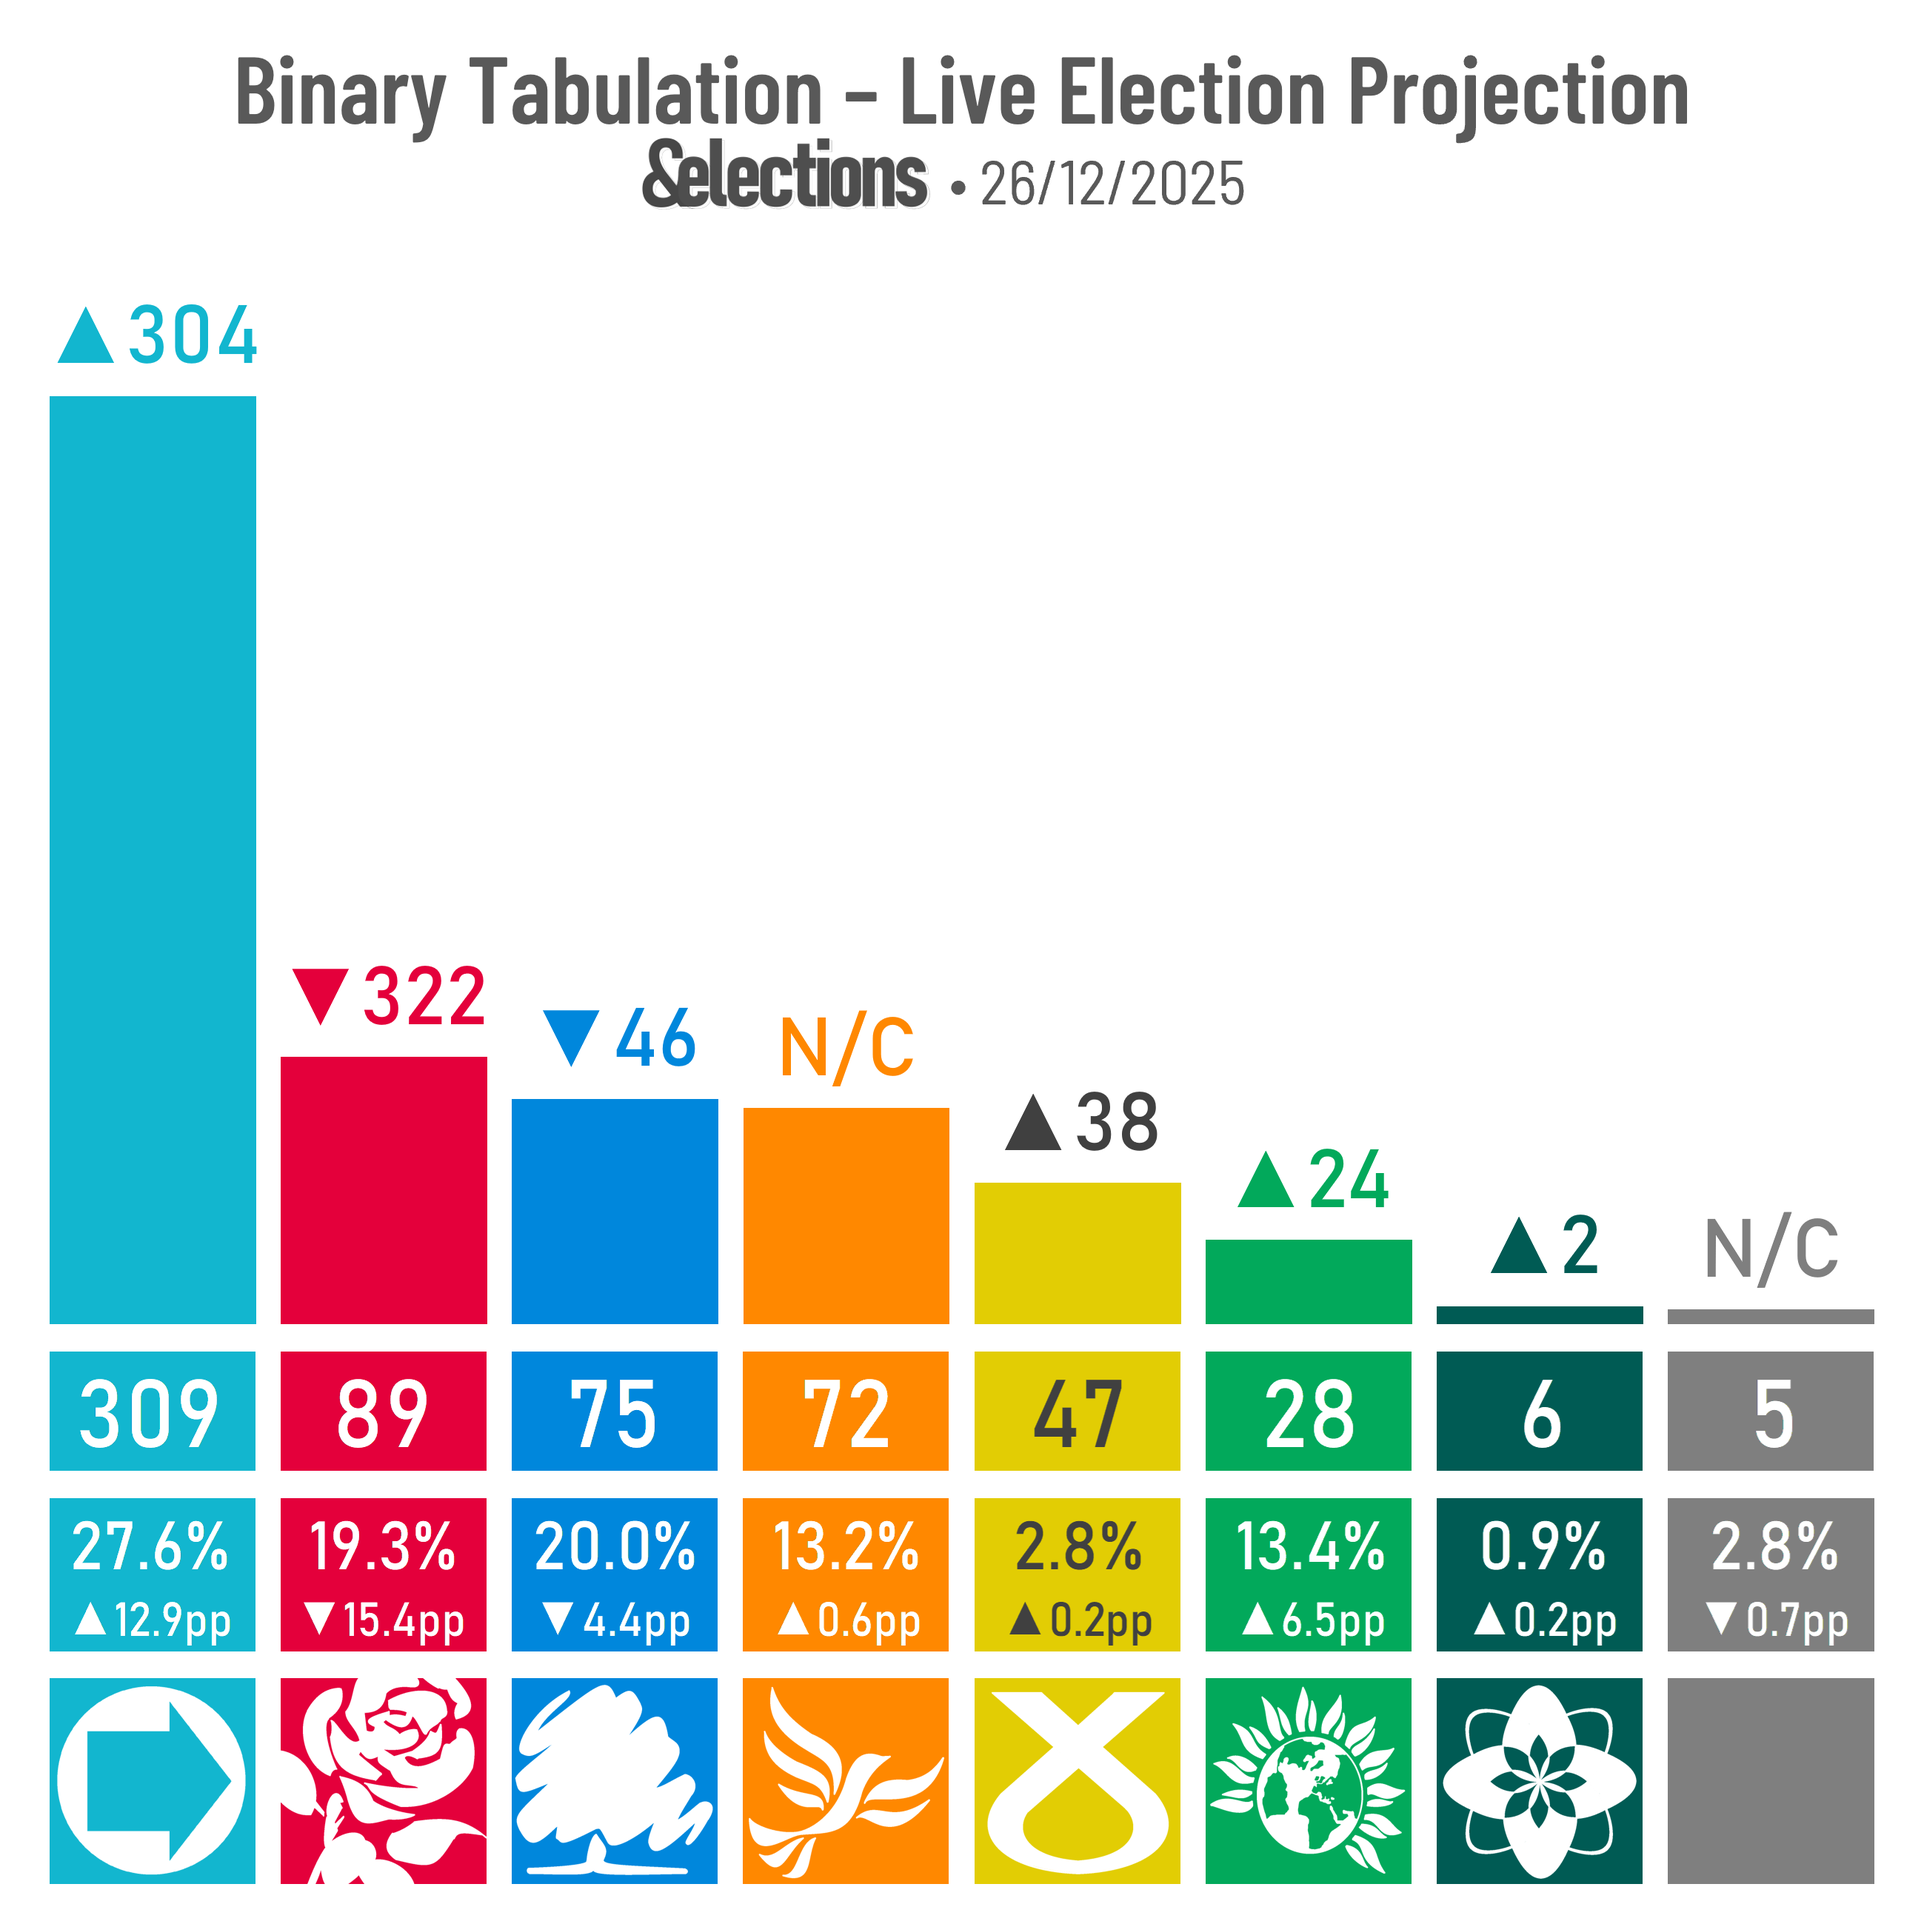
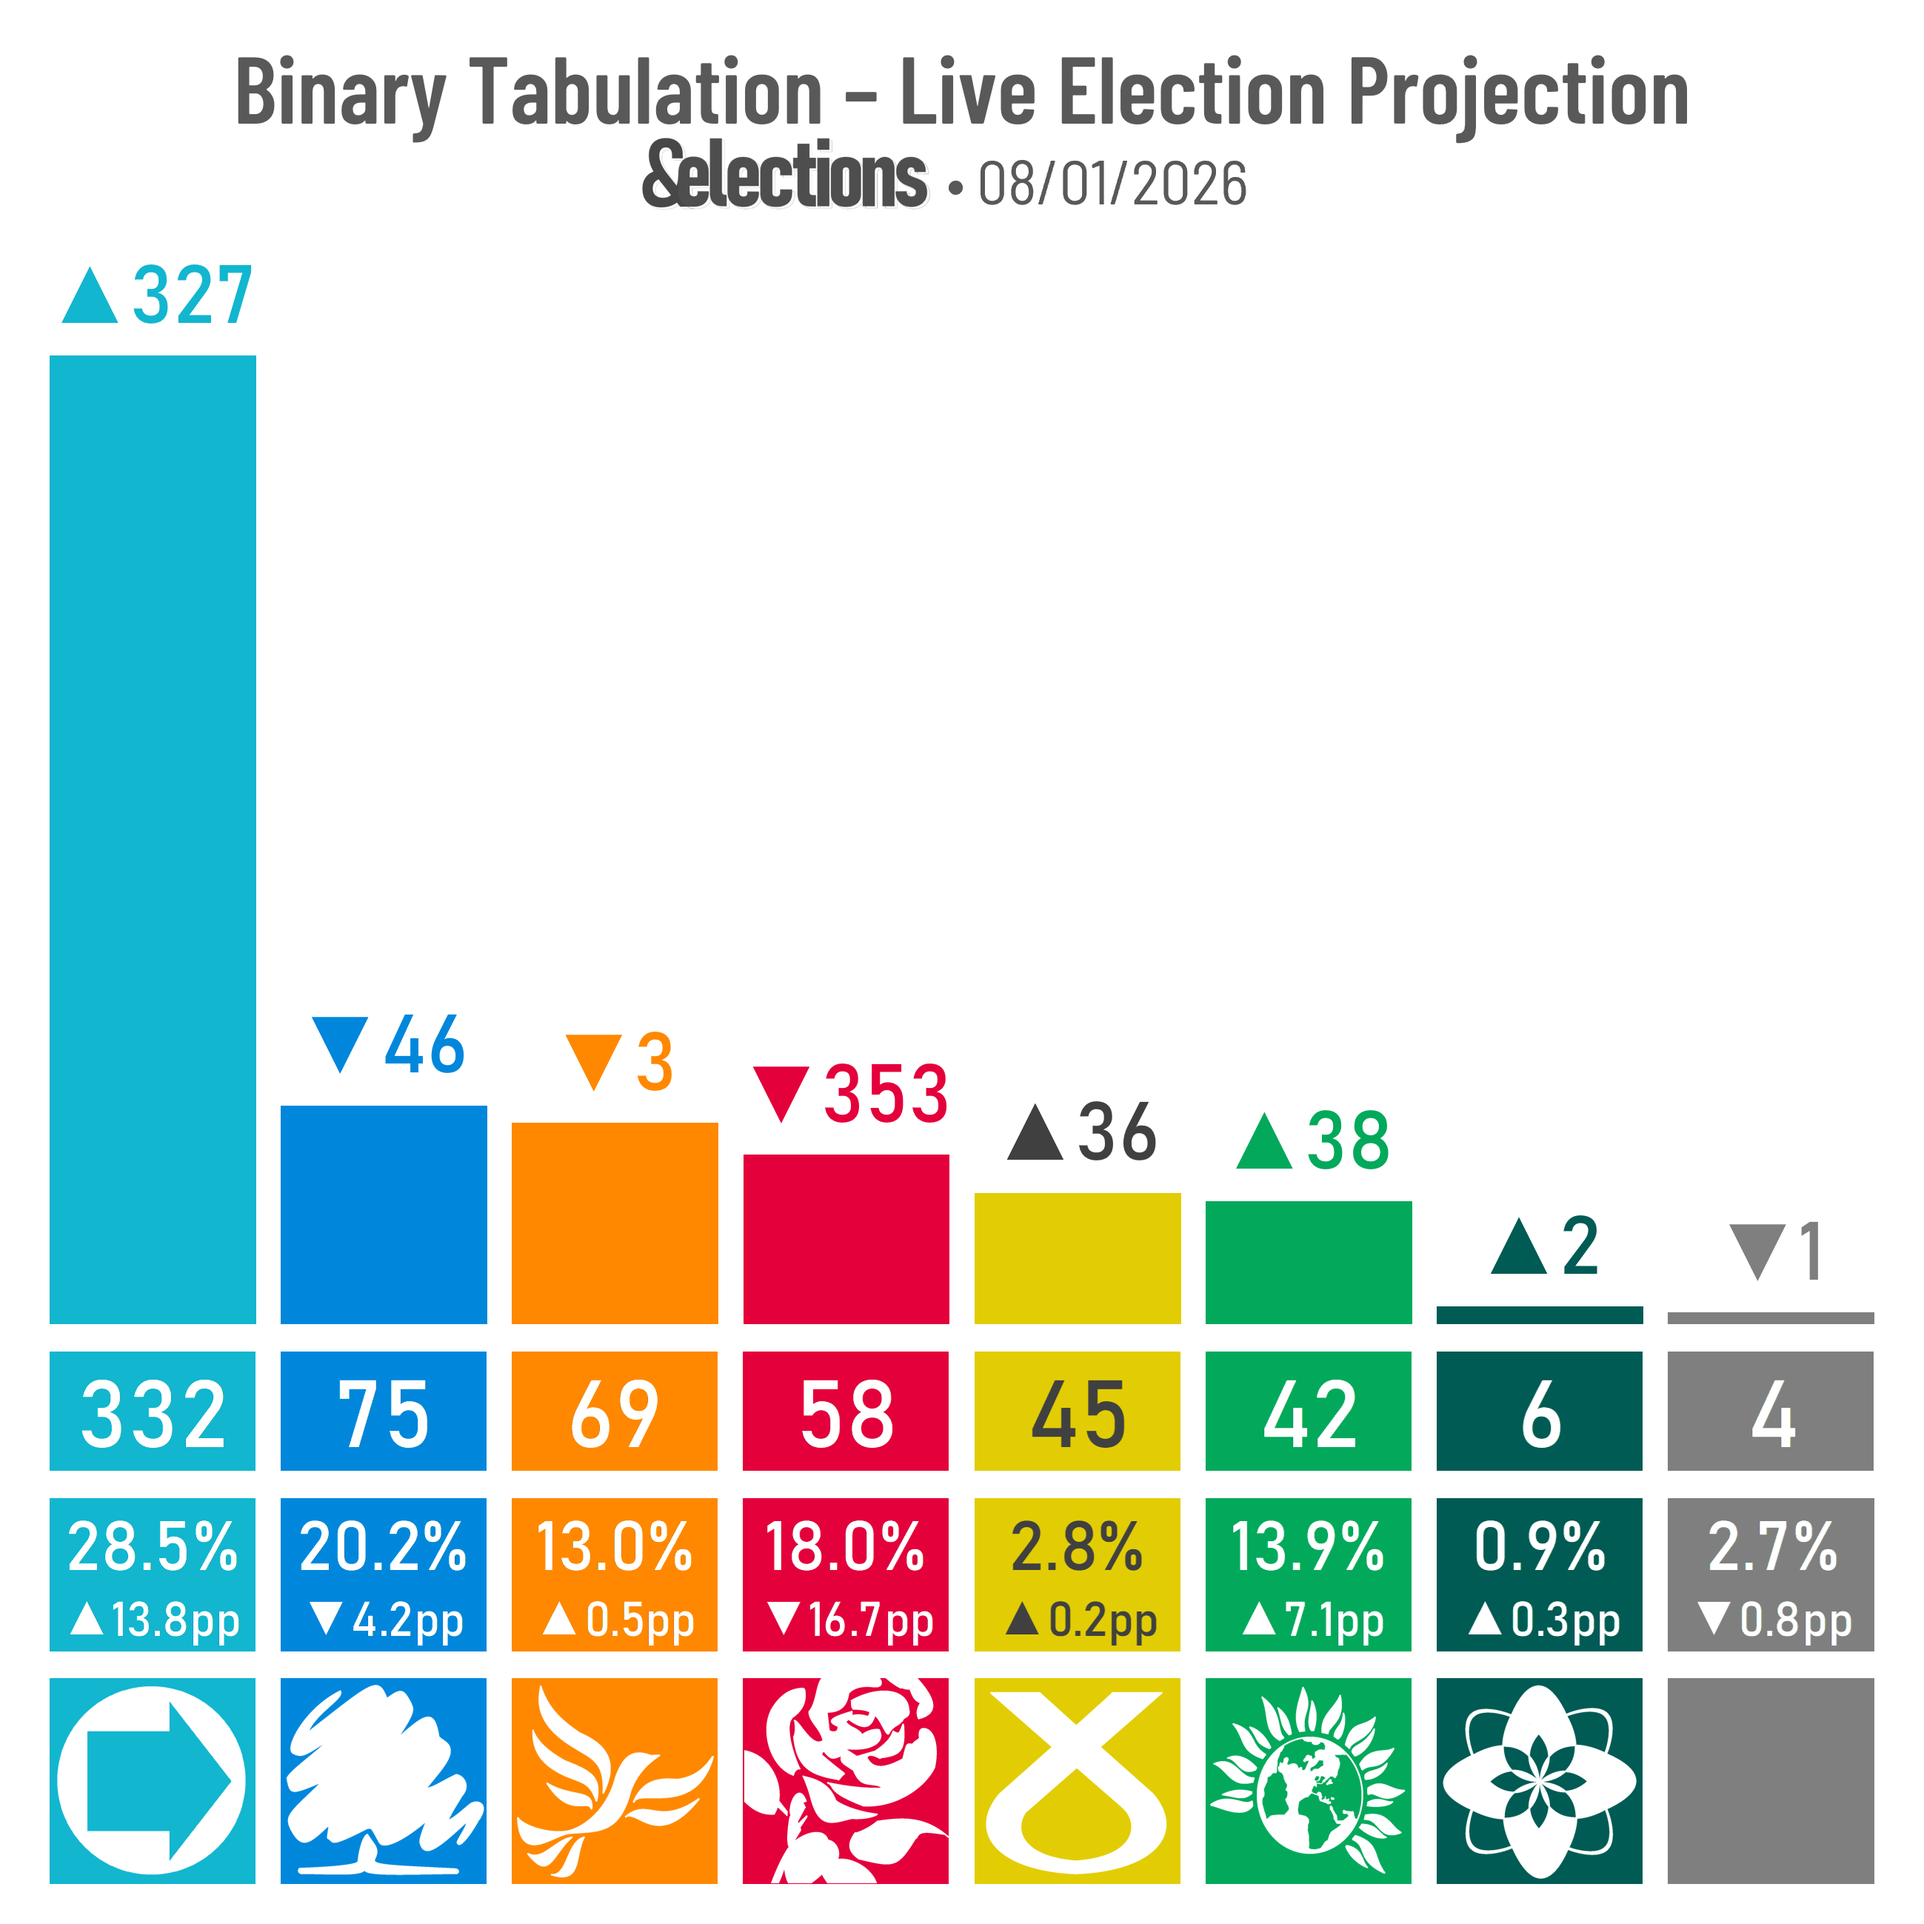
08/01/26 UK Projection
- Added images
- Added blog post

diff --git a/index.html b/index.html
@@ -262,6 +262,10 @@
                 </div>
                 <div class="datacontainer" id="data-blog">
                     <div class="blogtitles-container">
+                        <a href="https://andelections.substack.com/p/080126-uk-projection-new-year-new" title="Open article in new tab" target="_blank" rel="noopener noreferrer">
+                            <h2>08/01/26 UK Projection: New Year, New Badenoch?</h2>
+                            <p>08 Jan 2026 • The Tories would be set to be the second largest party if an election were held today, as Labour fall to &Elections' worst forecast for them ever and Reform fall short of a majority.</p>
+                        </a>
                         <a href="https://andelections.substack.com/p/020126-holyrood-projection-reform" title="Open article in new tab" target="_blank" rel="noopener noreferrer">
                             <h2>02/01/26 Holyrood Projection: Reform Poised to Form the Opposition</h2>
                             <p>05 Jan 2026 • The SNP are set to govern alone while Reform are poised to form the opposition as Labour and the Tories are to be comprehensivley anihilated to fourth and sixth place, respectively.</p>
